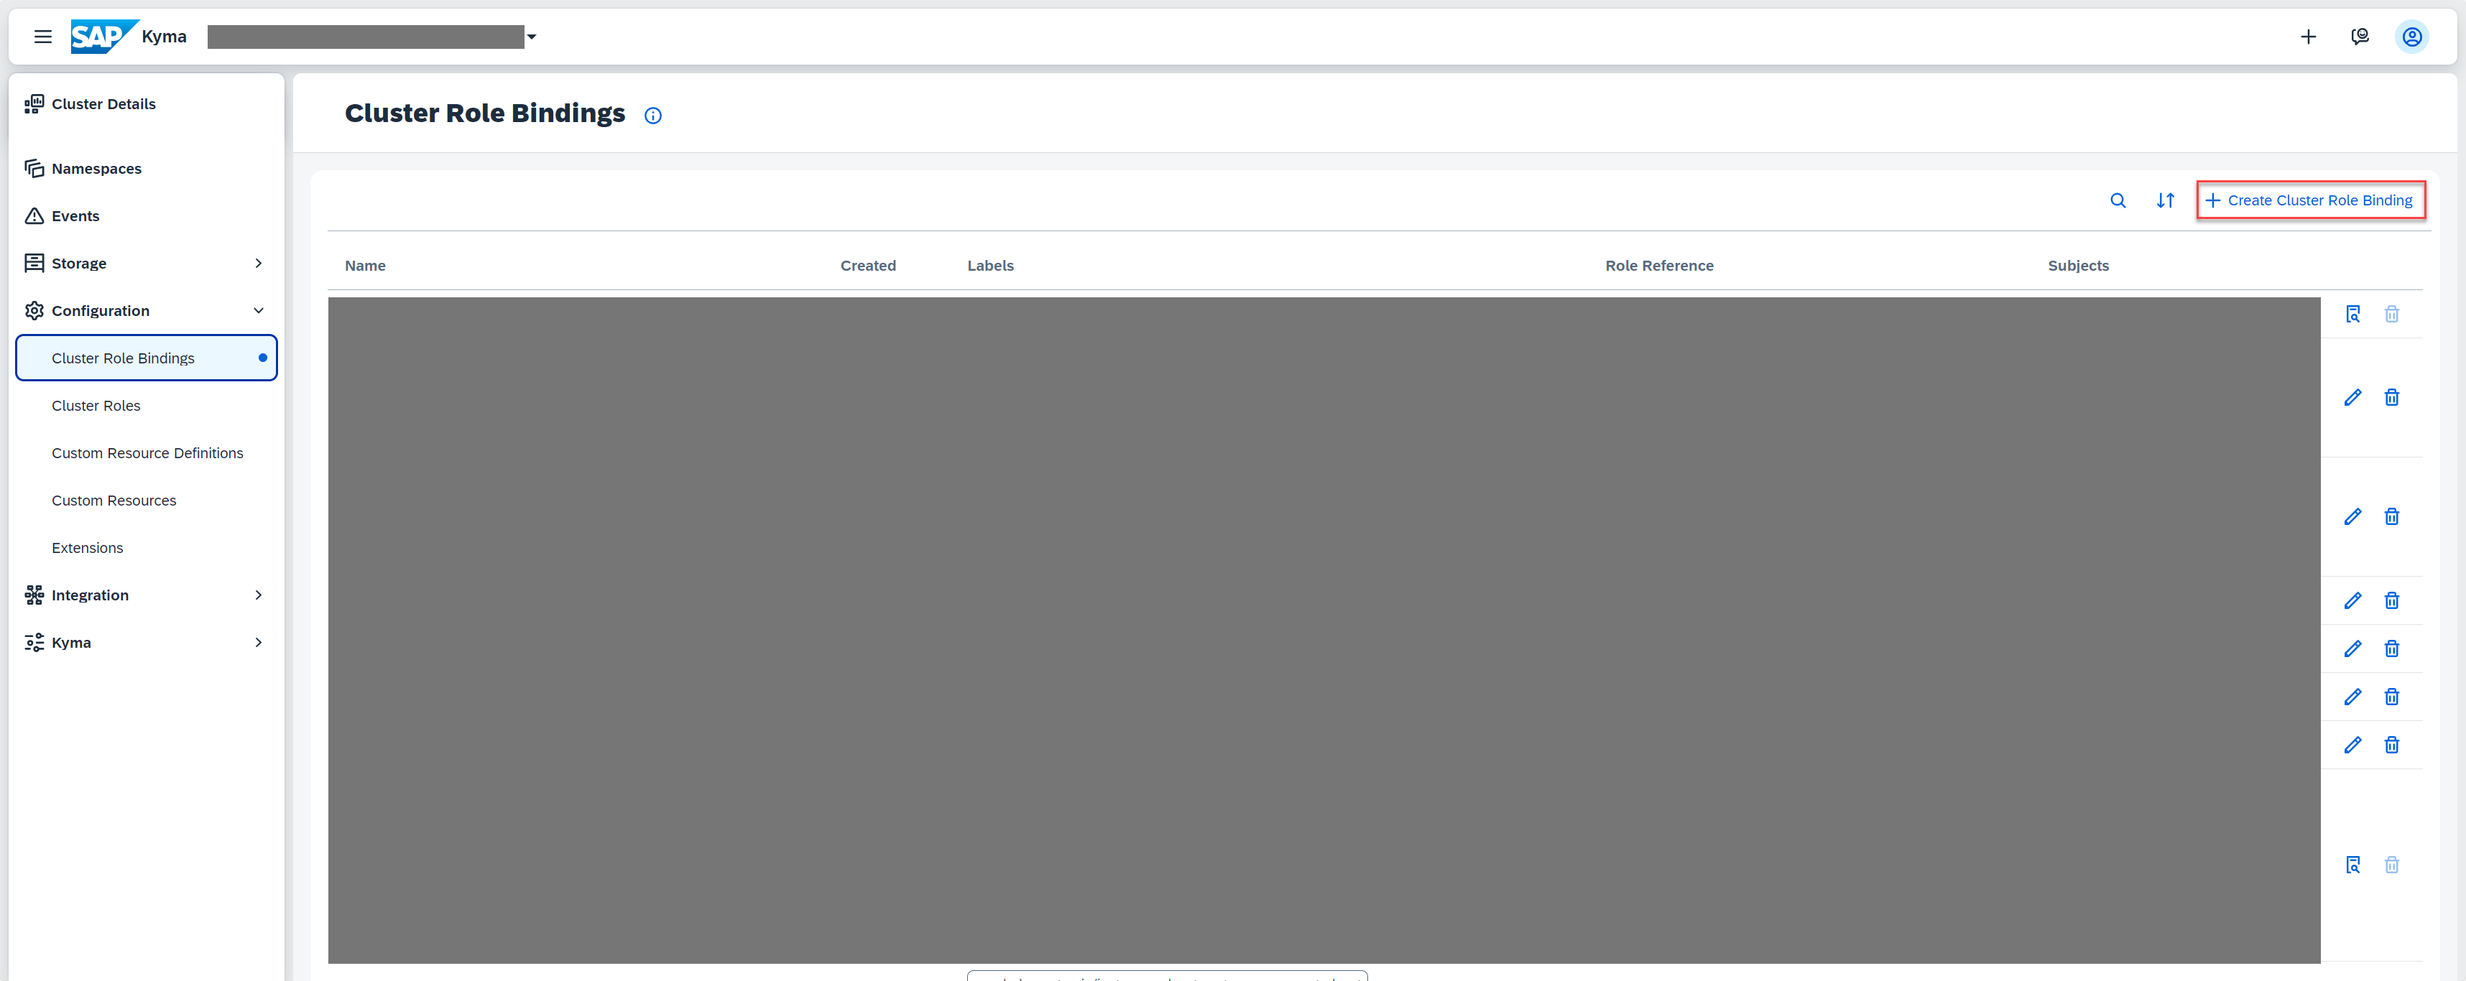
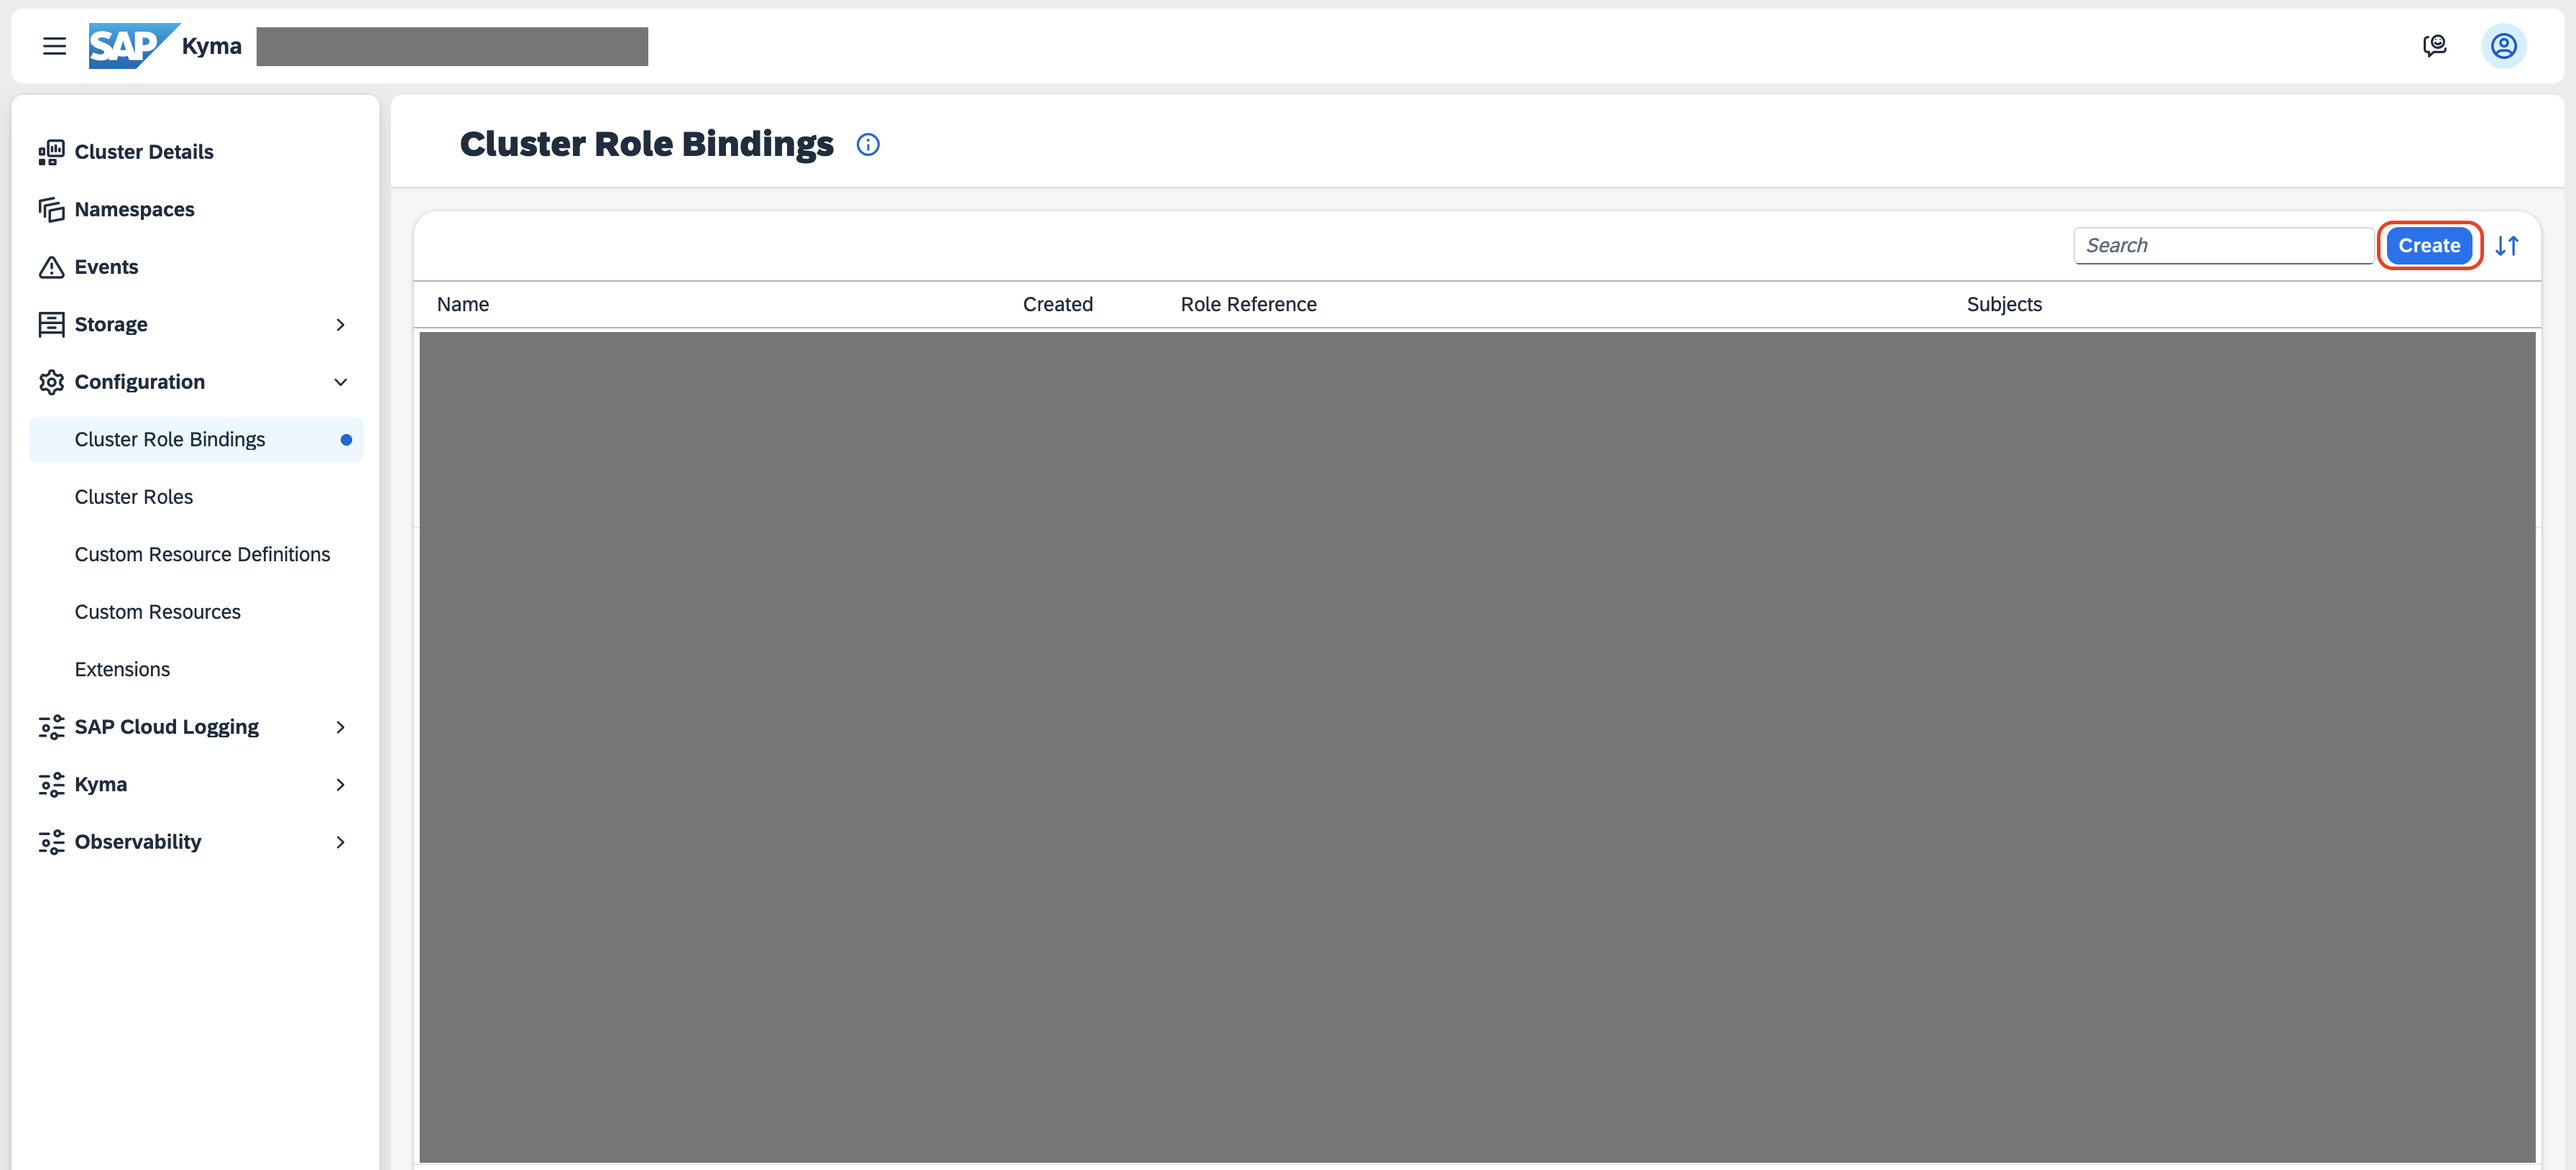
update steps and screenshots

Changed region(s): [[0.0, 0.0, 0.9977, 1.0], [0.8106, 0.1845, 0.9977, 0.246]]

diff --git a/tutorials/set-up-cicd-kyma/set-up-cicd-kyma.md b/tutorials/set-up-cicd-kyma/set-up-cicd-kyma.md
@@ -127,7 +127,7 @@ In order to run the pipeline using the SAP Continuous Integration and Delivery s
 
       <!-- border; size:540px --> ![Open Kyma console](./kyma-console.png)
 
-2. Choose **Namespaces** &rarr; **Create Namespace**.
+2. Choose **Namespaces** &rarr; **Create**.
 
     <!-- border; size:540px --> ![Create namespace](./create-namespace.png)
 
@@ -139,7 +139,7 @@ In order to run the pipeline using the SAP Continuous Integration and Delivery s
 
     <!-- border; size:540px --> ![Open namespace](./open-namespace.png)
 
-5. Choose **Create Service Account**.
+5. Choose **Create**.
 
     <!-- border; size:540px --> ![Create service account](./create-service-account.png)
 
@@ -161,7 +161,7 @@ In order to run the pipeline using the SAP Continuous Integration and Delivery s
 
     <!-- border; size:540px --> ![Cluster details](./cluster-details.png)
 
-10. Choose **Create Cluster Role Binding**.
+10. Choose **Create**.
 
     <!-- border; size:540px --> ![Create cluster role binding](./create-cluster-role-binding.png)
 
